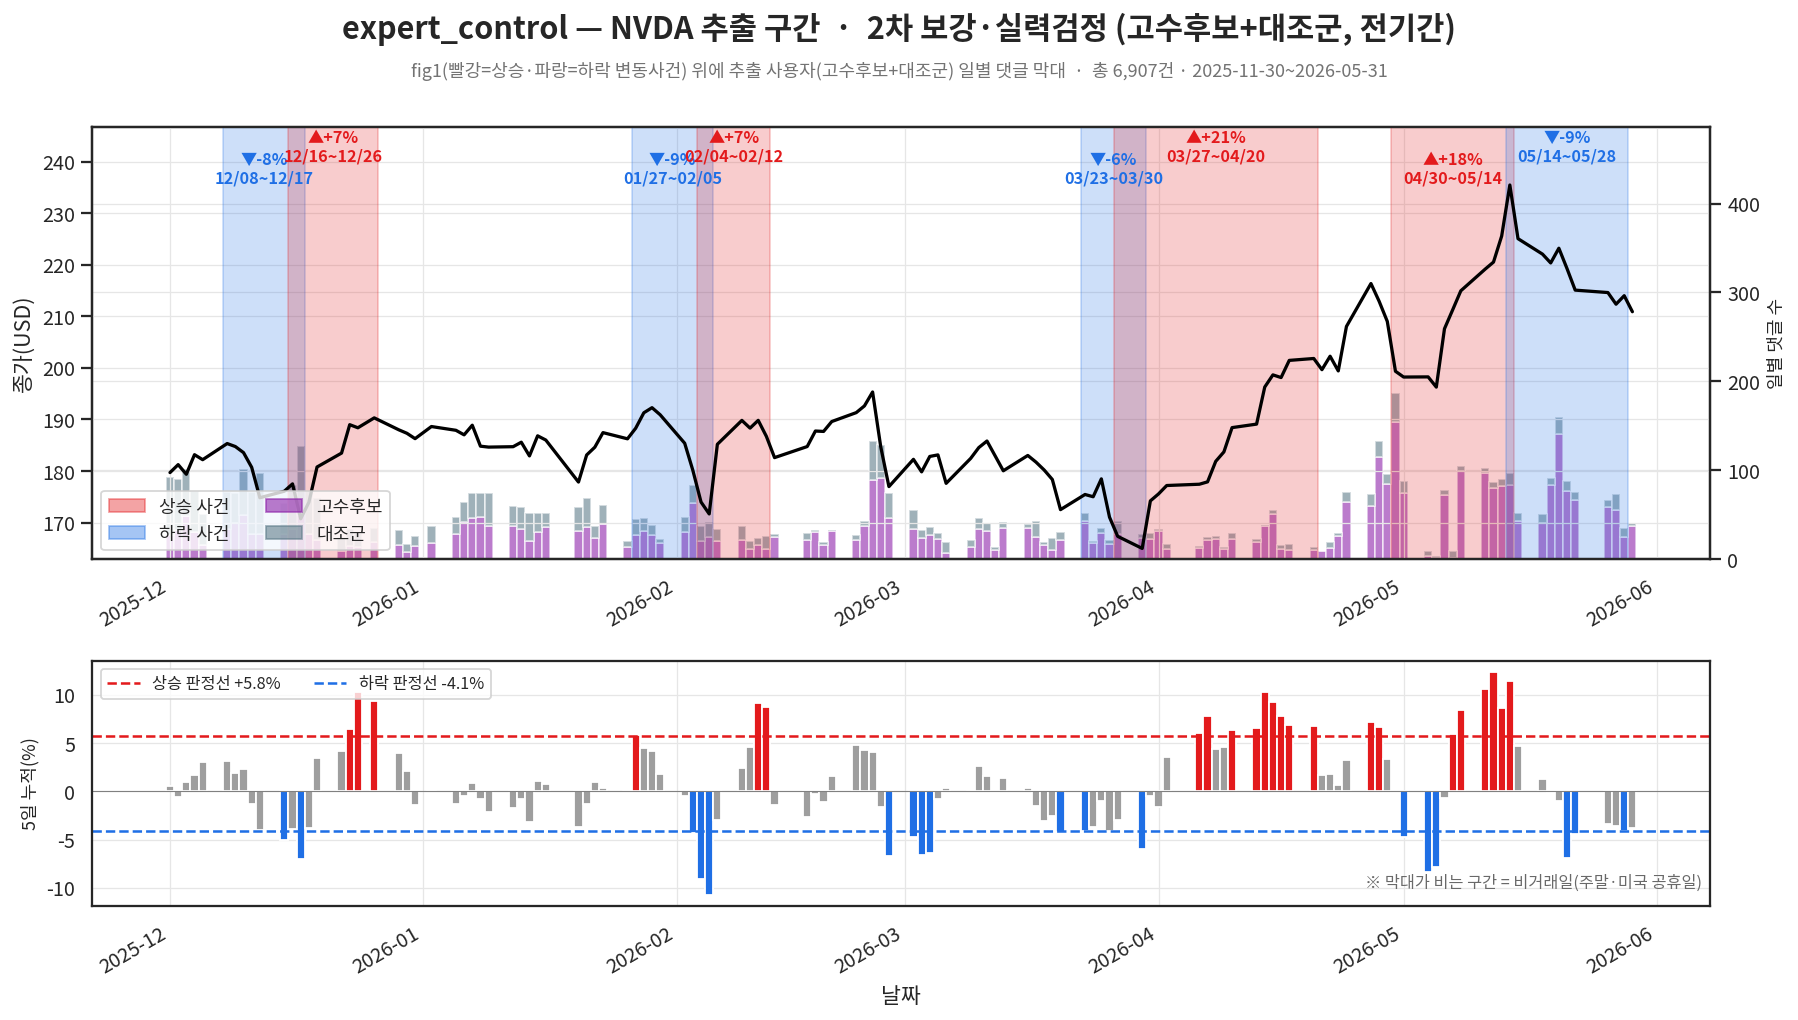
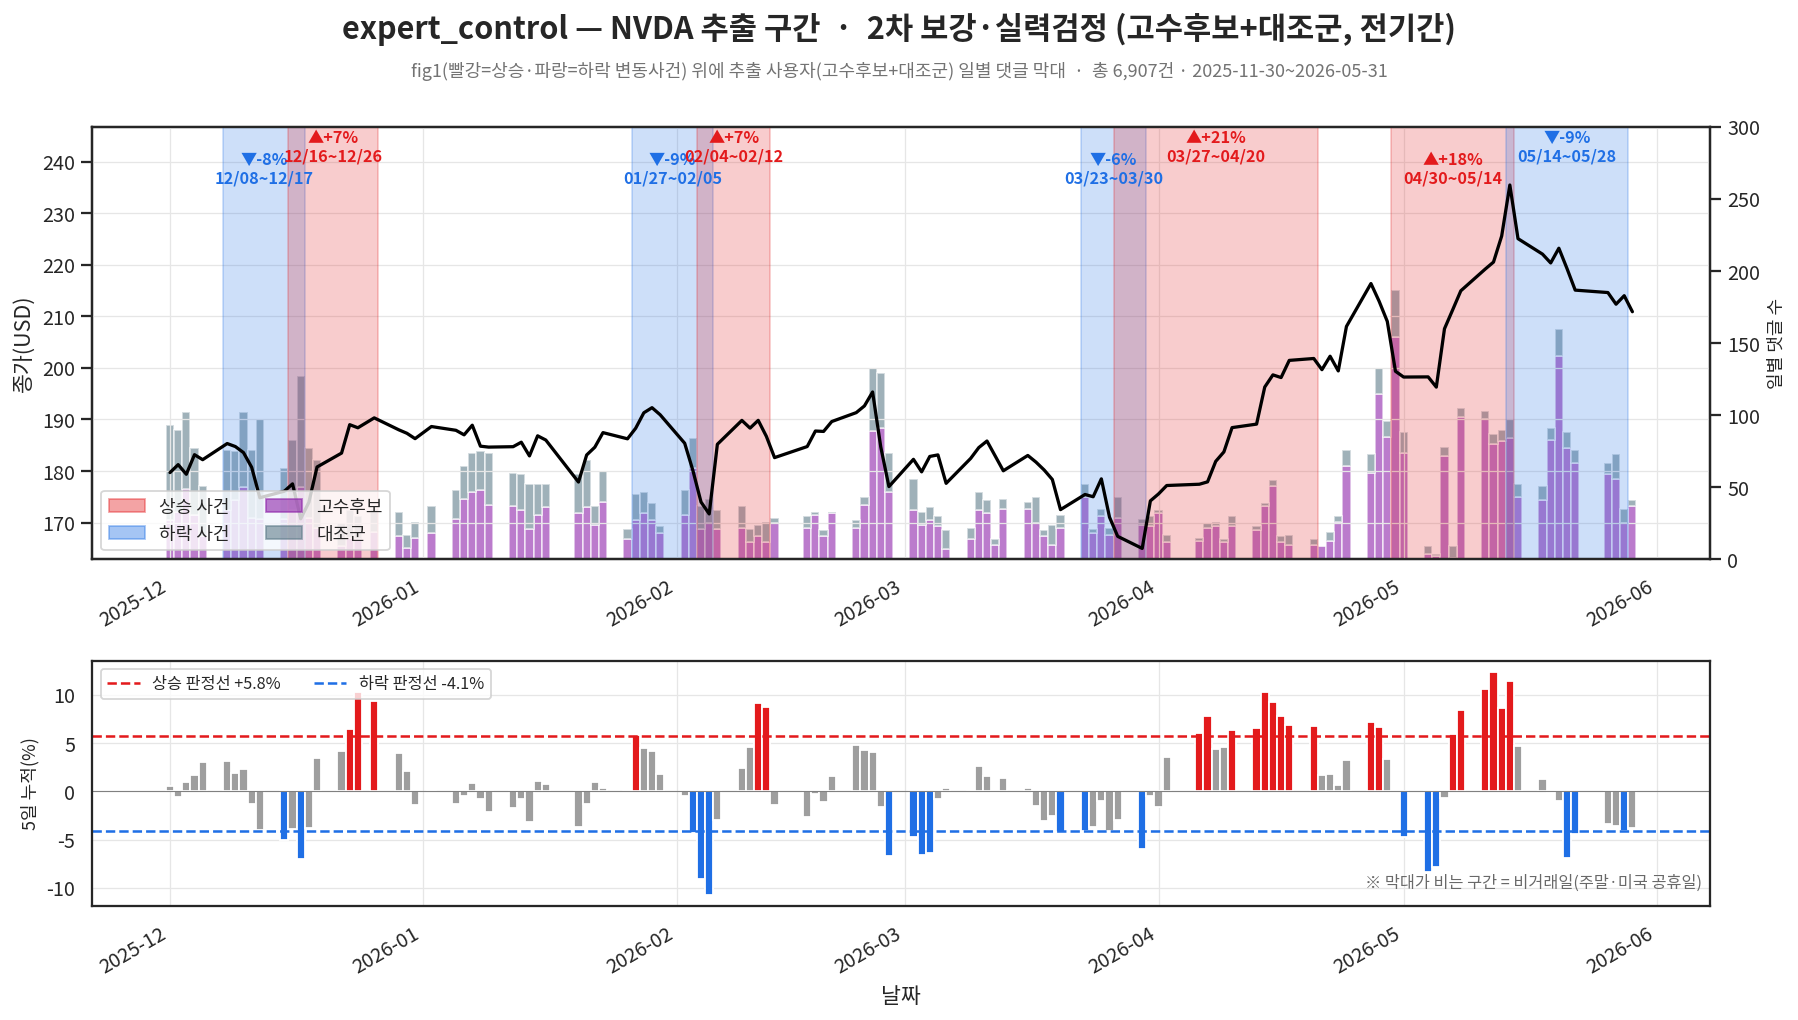
expert_control 막대 가독성: 상한 축소(최대 위 한칸, 282→400)·댓글수 축 그리드 제거
- 막대 너무 작던 것(*2.6 상한) → ceil(max/100)+1)*100 상한(TSLA 400·NVDA 300)
- 댓글수(트윈축) 그리드 off — 가격축 그리드와 겹쳐 보이던 문제 해소

diff --git a/lib/exploration.py b/lib/exploration.py
@@ -196,7 +196,9 @@ def fig_price_story(stock, h=H_DEFAULT, k=K_DEFAULT, max_labels=8,
             base = base + vals
             leg_h.append(Patch(color=color, alpha=0.6, label=label))
         axPb.set_ylabel("일별 댓글 수", fontsize=10)
-        axPb.set_ylim(0, max(1, base.max() * 2.6))    # 막대는 하단에 깔리게
+        ymax = (int(np.ceil(base.max() / 100)) + 1) * 100   # 최대 위 한 칸 여유(예: 282→400)
+        axPb.set_ylim(0, ymax)
+        axPb.grid(False)                              # 댓글수 축 그리드는 끔(겹침 방지)
         axP.set_zorder(axPb.get_zorder() + 1)         # 가격·사건을 막대 위로
         axP.patch.set_visible(False)
     axP.legend(handles=leg_h, loc="lower left", fontsize=10, ncol=2)